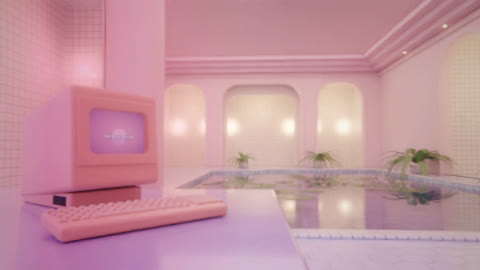
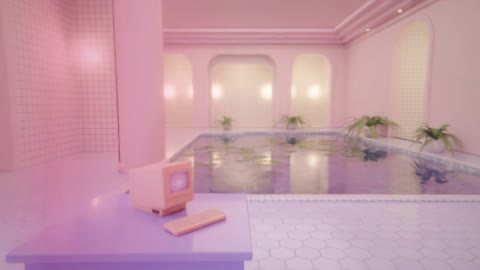
God rays and a doorway view for the nature presets
The room's haze is lit everywhere by the cove and alcove lights, so the sun's
shaft never stood out of it. nature.skylight.beams adds a second haze that only
the sun lights (Cycles light linking: every other light and glowing surface
skips it), so the shafts show as beams. Off by default.

palm_solarium and moonlit_conservatory now take the sun from beyond the far
wall (azimuth 155) with beams; they and lotus_court use a doorway camera,
higher and looking down, so the water shows its floor, the sun's dapples on it
and the lily pads instead of mirroring the room, with the CRT kept in frame.

diff --git a/tests/test_nature.py b/tests/test_nature.py
@@ -212,3 +212,28 @@ def test_tree_branches_stay_inside_the_walls():
         col = bpy.data.objects[f"TreeColumn.{i}"]
         xs = [(col.matrix_world @ v.co).x for v in col.data.vertices]
         assert -W / 2 < min(xs) and max(xs) < W / 2
+
+
+BEAMS = SKY + ["nature.skylight.beams.density=0.05"]
+
+
+def test_no_sunbeam_haze_unless_asked():
+    _build(*SKY)
+    assert "Sunbeams" not in bpy.data.objects
+
+
+def test_sunbeam_haze_fills_the_room_and_only_the_sun_lights_it():
+    cfg = _build(*BEAMS)
+    beams = bpy.data.objects["Sunbeams"]
+    vol = beams.active_material.node_tree.nodes["Principled Volume"]
+    assert vol.inputs["Density"].default_value == pytest.approx(0.05)
+    assert vol.inputs["Anisotropy"].default_value == pytest.approx(cfg["nature"]["skylight"]["beams"]["anisotropy"])
+    sun = bpy.data.objects["Sun"]
+    assert sun.light_linking.receiver_collection is None            # the sun lights everything
+    others = [o for o in bpy.data.objects if o.type == "LIGHT" and o is not sun]
+    assert others
+    for o in others:                                                # every other light skips the beams
+        rc = o.light_linking.receiver_collection
+        entry = next(e for ob, e in zip(rc.objects, rc.collection_objects) if ob is beams)
+        assert entry.light_linking.link_state == "EXCLUDE"
+    assert beams.visible_shadow is False

diff --git a/wavegen/scene/nature.py b/wavegen/scene/nature.py
@@ -102,6 +102,24 @@ def _skylight(cfg: dict, bounds) -> None:
     so.location = (cx, cy, cz + 3.0)
     so.rotation_euler = look_at_matrix(so.location, tuple(so.location[k] - s[k] for k in range(3))).to_euler()
     collection("Lights").objects.link(so)
+    if sky["beams"]["density"] > 0:
+        _sunbeams(cfg, bounds, so)
+
+
+def _sunbeams(cfg: dict, bounds, sun) -> None:
+    """Haze lit by the sun alone (Cycles light linking): every other light and glowing
+    surface skips it, so it shows only where the sun's shafts cross the room."""
+    x0, x1, y0, y1, H = bounds
+    bm = cfg["nature"]["skylight"]["beams"]
+    beams = box("Sunbeams", (x0 + 0.05, y0 + 0.05, 0.02), (x1 - 0.05, y1 - 0.05, H - 0.05), collection("Atmosphere"),
+                M.volume_haze("Sunbeams", cfg["palette"]["haze"], bm["density"], bm["anisotropy"]))
+    beams.visible_shadow = False
+    skip = bpy.data.collections.new("NoSunbeams")
+    skip.objects.link(beams)
+    skip.collection_objects[0].light_linking.link_state = "EXCLUDE"
+    for o in bpy.data.objects:
+        if o is not sun and o is not beams and o.type in ("LIGHT", "MESH"):
+            o.light_linking.receiver_collection = skip
 
 
 

diff --git a/wavegen/config.py b/wavegen/config.py
@@ -178,6 +178,9 @@ DEFAULTS: dict = {
             "sun_azimuth": 270.0,       # 0 = behind the camera, 90 = right, 180 = beyond the far wall, 270 = left
             "sun_angle": 1.2,           # apparent sun diameter in degrees: larger = softer dapples
             "canopy": {"height": 2.0, "coverage": 0.4, "scale": 1.4, "sway": 0.12},
+            # a haze only the sun lights, so its shafts stand out of the room's own glow; 0 = none.
+            # Strongest looking toward the sun: put it beyond the far wall (azimuth ~180).
+            "beams": {"density": 0.0, "anisotropy": 0.65},
         },
         # potted plants grown from the seed: [x, y, height] per spot, kinds used in turn
         "plants": {

diff --git a/README.md b/README.md
@@ -66,10 +66,10 @@ python -m wavegen still --set camera.lens=18 --set palette.water=[0.7,0.9,1.0] \
 | `poolrooms_night` | builds on `poolrooms`: after hours, deep blue, magenta neon, thick haze, long reverb |
 | `rose_natatorium` | builds on `poolrooms`: blush plaster, cream tile, peach lamps, lilac water |
 | `lavender_hall` | builds on `poolrooms`: a tall violet room with one wide back arch, in the emblem's purples |
-| `palm_solarium` | builds on `poolrooms`: an ivory greenhouse with sun through a leaf canopy, areca palms, ferns and lily pads |
+| `palm_solarium` | builds on `poolrooms`: an ivory greenhouse, sun shafts through a leaf canopy dappling the pool floor, palms, ferns, lilies |
 | `catenary_nave` | builds on `poolrooms`: Gaudí's poolroom, hanging-chain arches, branching tree columns, a honeycomb floor, sandstone and teal |
-| `lotus_court` | builds on `poolrooms_dusk`: a dusk water garden, clustered lily pads in bloom, ferns, honeycomb floor |
-| `moonlit_conservatory` | builds on `poolrooms_night`: moonlight through the canopy from beyond the far wall, palms in the dark, a few lilies |
+| `lotus_court` | builds on `poolrooms_dusk`: a dusk water garden seen from the doorway, lily pads in bloom, ferns, honeycomb floor |
+| `moonlit_conservatory` | builds on `poolrooms_night`: pale moonbeams slanting through the canopy into the haze, palms in the dark |
 
 [`docs/PRESETS.md`](docs/PRESETS.md) shows every preset with a thumbnail and its family tree.
 
@@ -134,7 +134,9 @@ chord order, and the result is deterministic for a given seed.
 - **Materials:** a world-space tile shader (any orientation, per-tile jitter, grout bump, clearcoat; a honeycomb floor with `room.floor_pattern="hex"`), plaster, refractive water with animated 4D-noise ripples and absorption, aged beige plastic, and a CRT phosphor with scanlines, glow and glass.
 - **Props:** a generic beige all-in-one CRT computer, keyboard and desk, plus a spinning, tumbling pastel screensaver icon.
 - **Nature** (off unless a preset asks): a skylight with sun falling through a swaying leaf canopy,
-  casting dappled light across walls and water (`nature.skylight`).
+  casting dappled light across walls and water (`nature.skylight`). With
+  `nature.skylight.beams` a haze only the sun lights (Cycles light linking) turns
+  its path into god rays that stand out of the room's own glow.
   Potted areca palms and Boston ferns grown from the seed, swaying gently (`nature.plants`).
   Tree columns that branch into the ceiling like a forest nave (`nature.tree_columns`).
   Water lilies drifting in loose clusters on the pool, some in flower (`nature.lily_pads`).

diff --git a/docs/PRESETS.md b/docs/PRESETS.md
@@ -41,31 +41,31 @@ Lavender hall: a tall violet room with one very wide back arch, matched to the W
 
 ![lotus_court](presets/lotus_court.jpg)
 
-Lotus court: the dusk room as a water garden. Lily pads drift in clusters with pink blooms, ferns soften the edges, the floor is laid in honeycomb.
+Lotus court: the dusk room as a water garden, seen from the doorway looking down onto the water. Lily pads drift in clusters with pink blooms, ferns soften the edges, the floor is laid in honeycomb.
 
 - Builds on `poolrooms_dusk` (lineage: lotus_court -> poolrooms_dusk -> poolrooms)
 - Tags: nature, dusk, pink, water-garden
-- Changes: palette (2), room (1), nature (7)
+- Changes: palette (2), room (1), nature (7), camera (3)
 
 ## moonlit_conservatory
 
 ![moonlit_conservatory](presets/moonlit_conservatory.jpg)
 
-Moonlit conservatory: the night room under an open canopy. Pale moonlight falls through the leaves from beyond the far wall, palms stand in the dark, a few lilies glow on the water.
+Moonlit conservatory: the night room under an open canopy. Pale moonbeams slant through the leaves into the haze, palms stand in the dark, a few lilies on the water.
 
 - Builds on `poolrooms_night` (lineage: moonlit_conservatory -> poolrooms_night -> poolrooms)
 - Tags: nature, night, blue, moon
-- Changes: palette (1), nature (7), atmosphere (1)
+- Changes: palette (1), nature (9), atmosphere (1), camera (3)
 
 ## palm_solarium
 
 ![palm_solarium](presets/palm_solarium.jpg)
 
-Palm solarium: a sunlit greenhouse pool. Dappled sun through a leafy skylight, potted palms and ferns, water lilies, warm ivory plaster and sea-green tile.
+Palm solarium: an ivory greenhouse. Sun shafts slant through a leaf canopy and dapple the pool floor; areca palms and ferns in planters, lily pads on sea-green water, seen from the doorway.
 
 - Builds on `poolrooms` (lineage: palm_solarium -> poolrooms)
 - Tags: nature, day, green, sun
-- Changes: palette (9), nature (7), atmosphere (1), post (1)
+- Changes: palette (9), nature (11), atmosphere (1), post (1), camera (3)
 
 ## poolrooms
 

diff --git a/docs/REFERENCE_SWEEP.md b/docs/REFERENCE_SWEEP.md
@@ -119,16 +119,25 @@ already exist; see [`PRESETS.md`](PRESETS.md) for thumbnails.
   into near-relatives for a series.
 
 ### Nature and biomimicry (the `nature` section, now built)
-- **Palm Solarium** (`palm_solarium`, done). A skylight with a swaying leaf
-  canopy throws dappled sun on the walls; areca palms and ferns in planters,
-  lily pads on sea-green water.
+- **Palm Solarium** (`palm_solarium`, done). Sun from beyond the far wall
+  slants through a swaying leaf canopy as god rays (`nature.skylight.beams`)
+  and dapples the pool floor; areca palms and ferns, lily pads on sea-green
+  water. The camera stands back in the doorway, higher and looking down, so
+  the water shows its floor instead of mirroring the room.
 - **Catenary Nave** (`catenary_nave`, done). Gaudí's poolroom: hanging-chain
   (`room.catenary`) arches, tree columns that branch into the ceiling like the
   Sagrada Família's, a honeycomb floor (`room.floor_pattern: "hex"`).
-- **Lotus Court** (`lotus_court`, done). The dusk room as a water garden:
-  clustered lily pads in bloom, ferns, honeycomb floor.
+- **Lotus Court** (`lotus_court`, done). The dusk room as a water garden,
+  seen from the same doorway camera: clustered lily pads in bloom, ferns,
+  honeycomb floor.
 - **Moonlit Conservatory** (`moonlit_conservatory`, done). The night room with
-  pale moonlight through the canopy from beyond the far wall.
+  pale moonbeams slanting through the canopy into the haze.
+
+Why the beams need their own haze: the room's haze is lit by the cove and
+alcove lights everywhere, which lifts it as much as the sun lifts the shaft,
+so no beam shows however thick it is. A second haze that only the sun lights
+has nothing but the shaft in it. Beams read best looking toward the sun
+(azimuth ~155, forward-scattering anisotropy 0.75).
 
 ### Need one new feature each
 - **Glowing Pool.** Underwater lights so the water lights the room from below.
